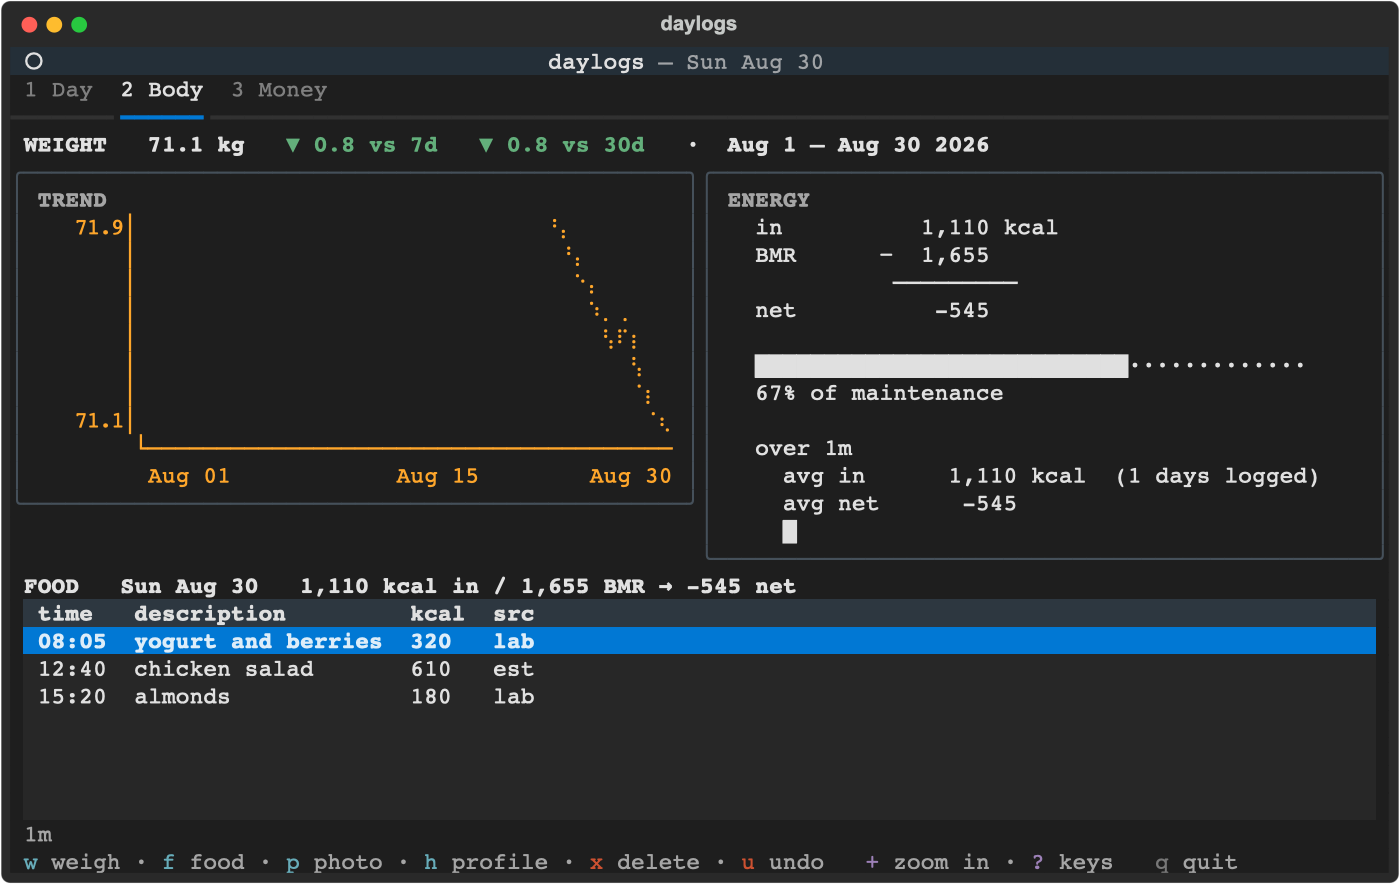
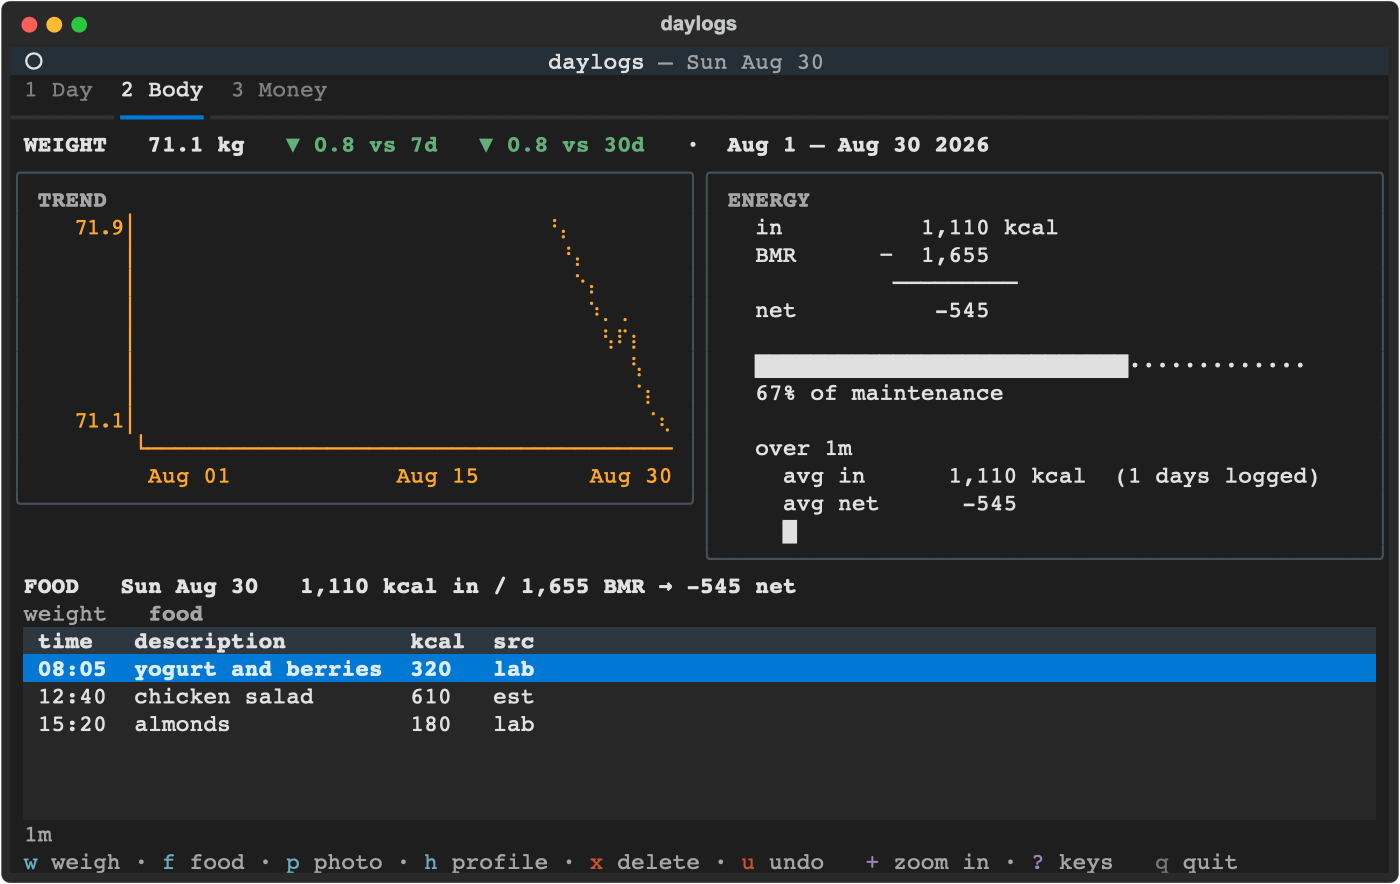
fix: the Body table header named the wrong view, and nothing said which was active (#20)
Two defects, one symptom — "you can't tell which view you're on, especially in
weight".

**The header was wrong, not missing.** `_food_head` was built unconditionally as
`FOOD   <date>   <kcal> in / <bmr> BMR → <net> net`, including while the table
below it listed weigh-ins under `date | kg | note`. So tabbing to the weight view
left a calorie total sitting on top of a weight table. A label that is wrong is
worse than one that is absent, and it is the likeliest reason that view felt
unlocated. Reproduced against real data before changing anything.

The header now follows table_mode. In weight mode it reads `WEIGHT   60 most
recent weigh-ins` — deliberately "recent" rather than naming the span, because
`list_weight` is not span-filtered and claiming the span would be the same class
of lie. `_WEIGHT_ROWS` is shared with the query so the stated count and the
fetched count cannot drift.

**Nothing drew the sub-views.** Money has always drawn its three panes as a
visible strip; Body had the identical two-way toggle and drew nothing, so `tab`
was undiscoverable. Body now draws the same strip in the same screen position with
the same class, via a shared `widgets.view_row` that Money now uses too — so "the
two tabs look the same" is true by construction rather than by two call sites
happening to agree, which is precisely how the good/bad colours once drifted out
of PALETTE.

The `FOOD`/`WEIGHT` word stays in the header even though the strip also names the
[…]

Changed region(s): [[0.0, 0.6719, 0.9829, 0.8247]]

diff --git a/daylogs/tui/body_tab.py b/daylogs/tui/body_tab.py
@@ -21,7 +21,7 @@ from daylogs.fmt import hhmm, human_date
 from daylogs.parse import ParseError, parse_food, parse_profile, parse_weigh
 from daylogs.tui import chart
 from daylogs.tui.common import PanelTab
-from daylogs.tui.widgets import burn_bar, mark, sparkline, trend_style
+from daylogs.tui.widgets import burn_bar, mark, sparkline, trend_style, view_row
 
 _CHART_H = 8
 _YLABEL_W = 7
@@ -35,6 +35,13 @@ _DEFAULT_HORIZON = "1m"
 # 60 seconds — so it vanished while you were still waiting, indistinguishable from
 # a dropped keypress. Same spacing convention as summary_tab's "generating…".
 _ESTIMATING = "   estimating…"
+# The two sub-views `tab` walks, in the order the strip draws them. Named so the
+# header, the strip and the toggle cannot disagree about what exists.
+_VIEWS = ("weight", "food")
+# How many weigh-ins the weight view lists. Shared with the header, which states
+# the number — a header quoting a different count than the query uses is the same
+# defect as a header naming the wrong view.
+_WEIGHT_ROWS = 60
 
 
 class BodyTab(PanelTab):
@@ -72,6 +79,9 @@ class BodyTab(PanelTab):
                 yield Static("ENERGY", classes="panel-title")
                 yield Static(id="energy-body", classes="panel-body")
         yield Static(id="food-head", classes="pane-title")
+        # Same position and class as Money's pane strip, so both tabs answer
+        # "which view am I on" in the same place on screen.
+        yield Static(id="body-views", classes="muted")
         yield DataTable(id="body-table", cursor_type="row")
         yield Static(id="inbox-line", classes="muted")
 
@@ -155,14 +165,26 @@ class BodyTab(PanelTab):
             self._energy_panel(conn, cfg, date=date, kcal=kcal, bmr=bmr, span=span)
         )
 
-        label = human_date(date)
-        if bmr is None:
-            self._food_head = f"FOOD   {label}   {kcal:,} kcal in"
+        # The header describes the table directly beneath it, so it has to follow
+        # table_mode. It used to read "FOOD … kcal in / BMR → net" unconditionally,
+        # including while the table listed weigh-ins — a label that is wrong is
+        # worse than one that is missing.
+        if self.table_mode == "weight":
+            # Says "recent" rather than naming the span, because list_weight is not
+            # span-filtered: it returns the latest 60 rows whatever the horizon and
+            # whatever day is being viewed. Claiming the span here would be the same
+            # class of lie this fixes.
+            self._food_head = f"WEIGHT   {_WEIGHT_ROWS} most recent weigh-ins"
         else:
-            self._food_head = (
-                f"FOOD   {label}   {kcal:,} kcal in / {bmr:,} BMR → {kcal - bmr:+,} net"
-            )
+            label = human_date(date)
+            if bmr is None:
+                self._food_head = f"FOOD   {label}   {kcal:,} kcal in"
+            else:
+                self._food_head = (
+                    f"FOOD   {label}   {kcal:,} kcal in / {bmr:,} BMR → {kcal - bmr:+,} net"
+                )
         self._paint_food_head()
+        self.query_one("#body-views", Static).update(view_row(_VIEWS, self.table_mode))
 
         self._fill_table(date)
 
@@ -225,7 +247,7 @@ class BodyTab(PanelTab):
         self._ids = []
         if self.table_mode == "weight":
             table.add_columns("date", "kg", "note")
-            for r in body.list_weight(self.app.conn, limit=60):
+            for r in body.list_weight(self.app.conn, limit=_WEIGHT_ROWS):
                 table.add_row(r["date"], f"{r['kg']:g}", r["note"] or "")
                 self._ids.append(r["id"])
         else:
@@ -288,7 +310,7 @@ class BodyTab(PanelTab):
             self.app.prompt.open("food", prefill=parse.render_food(row))
 
     def key_next_subview(self) -> None:
-        self.table_mode = "weight" if self.table_mode == "food" else "food"
+        self.table_mode = _VIEWS[(_VIEWS.index(self.table_mode) + 1) % len(_VIEWS)]
         self.reload()
 
     key_prev_subview = key_next_subview  # only two sub-views; direction is moot

diff --git a/tests/test_tui_body.py b/tests/test_tui_body.py
@@ -1461,3 +1461,65 @@ async def test_a_superseded_photo_estimate_does_not_let_the_next_meal_eat_the_ph
 
 async def _immediate(value):
     return value
+
+
+# ── which view am I on ───────────────────────────────────────────────────
+
+
+def _view_row(app) -> str:
+    from textual.widgets import Static
+
+    return str(app.query_one("#body-views", Static).content)
+
+
+async def test_the_table_header_names_the_view_it_is_showing(make_app, make_cfg, db):
+    """The header used to say FOOD unconditionally, including while the table
+    below it listed weigh-ins with `date | kg | note` columns and the header
+    quoted the day's calorie total. A label that is wrong is worse than absent —
+    it is the reason the weight view felt unlocated.
+    """
+    add_weight(db, kg=80.0, date="2026-08-27", at=1)
+    add_food(db, description="salad", kcal=610, source="labeled", date="2026-08-27", at=2)
+    cfg = make_cfg(height_cm=180, sex="male", birthday="1996-08-27")
+    app = make_app(cfg=cfg)
+    async with app.run_test() as pilot:
+        body = await go_body(pilot, app)
+        body.viewing_date = "2026-08-27"
+        body.reload()
+        await pilot.pause()
+        assert body.table_mode == "food"
+        assert "FOOD" in _food_head(app)
+
+        await pilot.press("tab")
+        await pilot.pause()
+        assert body.table_mode == "weight"
+        head = _food_head(app)
+    assert "WEIGHT" in head, f"the weight table is not labelled: {head!r}"
+    assert "FOOD" not in head, f"still labelled FOOD while showing weigh-ins: {head!r}"
+    assert "kcal" not in head, f"a calorie total over the weight table: {head!r}"
+    assert "BMR" not in head
+
+
+async def test_body_lists_both_views_with_the_active_one_marked(make_app, db):
+    """Money has always drawn its three panes as a visible row; Body had the same
+    two-way toggle and drew nothing, so `tab` was undiscoverable."""
+    app = make_app()
+    async with app.run_test() as pilot:
+        await go_body(pilot, app)
+        await pilot.pause()
+        row = _view_row(app)
+    assert "weight" in row and "food" in row, f"not both views: {row!r}"
+    assert "[b]food[/b]" in row, f"the active view is not marked: {row!r}"
+    assert "[b]weight[/b]" not in row
+
+
+async def test_tab_moves_the_mark_to_the_other_view(make_app, db):
+    app = make_app()
+    async with app.run_test() as pilot:
+        await go_body(pilot, app)
+        await pilot.pause()
+        await pilot.press("tab")
+        await pilot.pause()
+        row = _view_row(app)
+    assert "[b]weight[/b]" in row, f"the mark did not follow the tab: {row!r}"
+    assert "[b]food[/b]" not in row

diff --git a/tests/test_widgets.py b/tests/test_widgets.py
@@ -330,3 +330,33 @@ def test_very_narrow_widths_still_produce_a_bounded_line():
             assert len(line) <= width
         for line in ranked_bars([("housing", 900.0)], width=width):
             assert len(line) <= width
+
+
+# ── view_row ─────────────────────────────────────────────────────────────
+
+
+def test_view_row_marks_only_the_active_name():
+    from daylogs.tui.widgets import view_row
+
+    assert view_row(("weight", "food"), "food") == "weight   [b]food[/b]"
+
+
+def test_view_row_is_what_both_tabs_use():
+    """Body and Money must draw this row identically — the point of the shared
+    helper is that "they look the same" is true by construction rather than by
+    two call sites happening to agree.
+    """
+    from daylogs.moneyview import PANES
+    from daylogs.tui.widgets import view_row
+
+    body = view_row(("weight", "food"), "weight")
+    money = view_row(PANES, PANES[0])
+    assert body.startswith("[b]") and money.startswith("[b]")
+    assert "   " in body and "   " in money
+
+
+def test_view_row_marks_nothing_when_the_active_name_is_unknown():
+    """A typo'd mode should degrade to an unmarked row, not raise in a render."""
+    from daylogs.tui.widgets import view_row
+
+    assert view_row(("weight", "food"), "nonsense") == "weight   food"

diff --git a/daylogs/tui/widgets.py b/daylogs/tui/widgets.py
@@ -52,6 +52,24 @@ def mark(text: str, style: str = "") -> str:
     return f"[{style}]{text}[/]" if style else text
 
 
+def view_row(names: tuple[str, ...], active: str) -> str:
+    """The sub-view strip: every view a tab has, with the current one in bold.
+
+    Money drew this for its three panes from the start. Body had the same toggle
+    — weigh-ins or meals, on `tab` — and drew nothing, so the key was
+    undiscoverable and the weight table read as having come from nowhere.
+
+    Shared rather than cloned so that "the two tabs look the same" is true by
+    construction. Two call sites that merely happen to agree is exactly how
+    widgets' good/bad colours drifted out of PALETTE.
+
+    An unknown `active` marks nothing rather than raising: this runs inside a
+    render, where an exception costs the whole frame, and an unmarked row still
+    tells the truth about which views exist.
+    """
+    return "   ".join(f"[b]{n}[/b]" if n == active else n for n in names)
+
+
 def trend_style(value: float | None, *, falling_is_good: bool = True) -> str:
     """Which way is good, for a signed number. The one place that rule lives.
 

diff --git a/daylogs/tui/money_tab.py b/daylogs/tui/money_tab.py
@@ -27,6 +27,7 @@ from daylogs.tui.widgets import (
     mark,
     ranked_bars,
     signed,
+    view_row,
     wide_sparkline,
 )
 from daylogs.tui.widgets import money as fmt
@@ -164,9 +165,7 @@ class MoneyTab(PanelTab):
         self.query_one("#money-head", Static).update(head)
 
         self._fill_panels(s)
-        self.query_one("#money-panes", Static).update(
-            "   ".join(f"[b]{p}[/b]" if p == v.pane else p for p in PANES)
-        )
+        self.query_one("#money-panes", Static).update(view_row(PANES, v.pane))
         self._fill_table(s)
 
     def _no_budget_hint(self, months: list[str]) -> str:

diff --git a/README.md b/README.md
@@ -98,7 +98,7 @@ group. On a narrow terminal it sheds navigation keys first and never `?` or `q`.
 |---|---|
 | `1` `2` `3` | Day / Body / Money |
 | `←` `→` | previous / next tab — stops at the ends rather than wrapping |
-| `tab` `shift+tab` | next / previous sub-view *within* the tab (Body, Money) |
+| `tab` `shift+tab` | next / previous sub-view *within* the tab — the strip above the table lists them and marks the one you're on (Body, Money) |
 | `[` `]` | previous / next period — report on Day, day on Body, month on Money |
 | `t` | **jump to now** — today, this month, newest report |
 | `g` | go to a date (`2026-06-15` or `2026-06`) |
